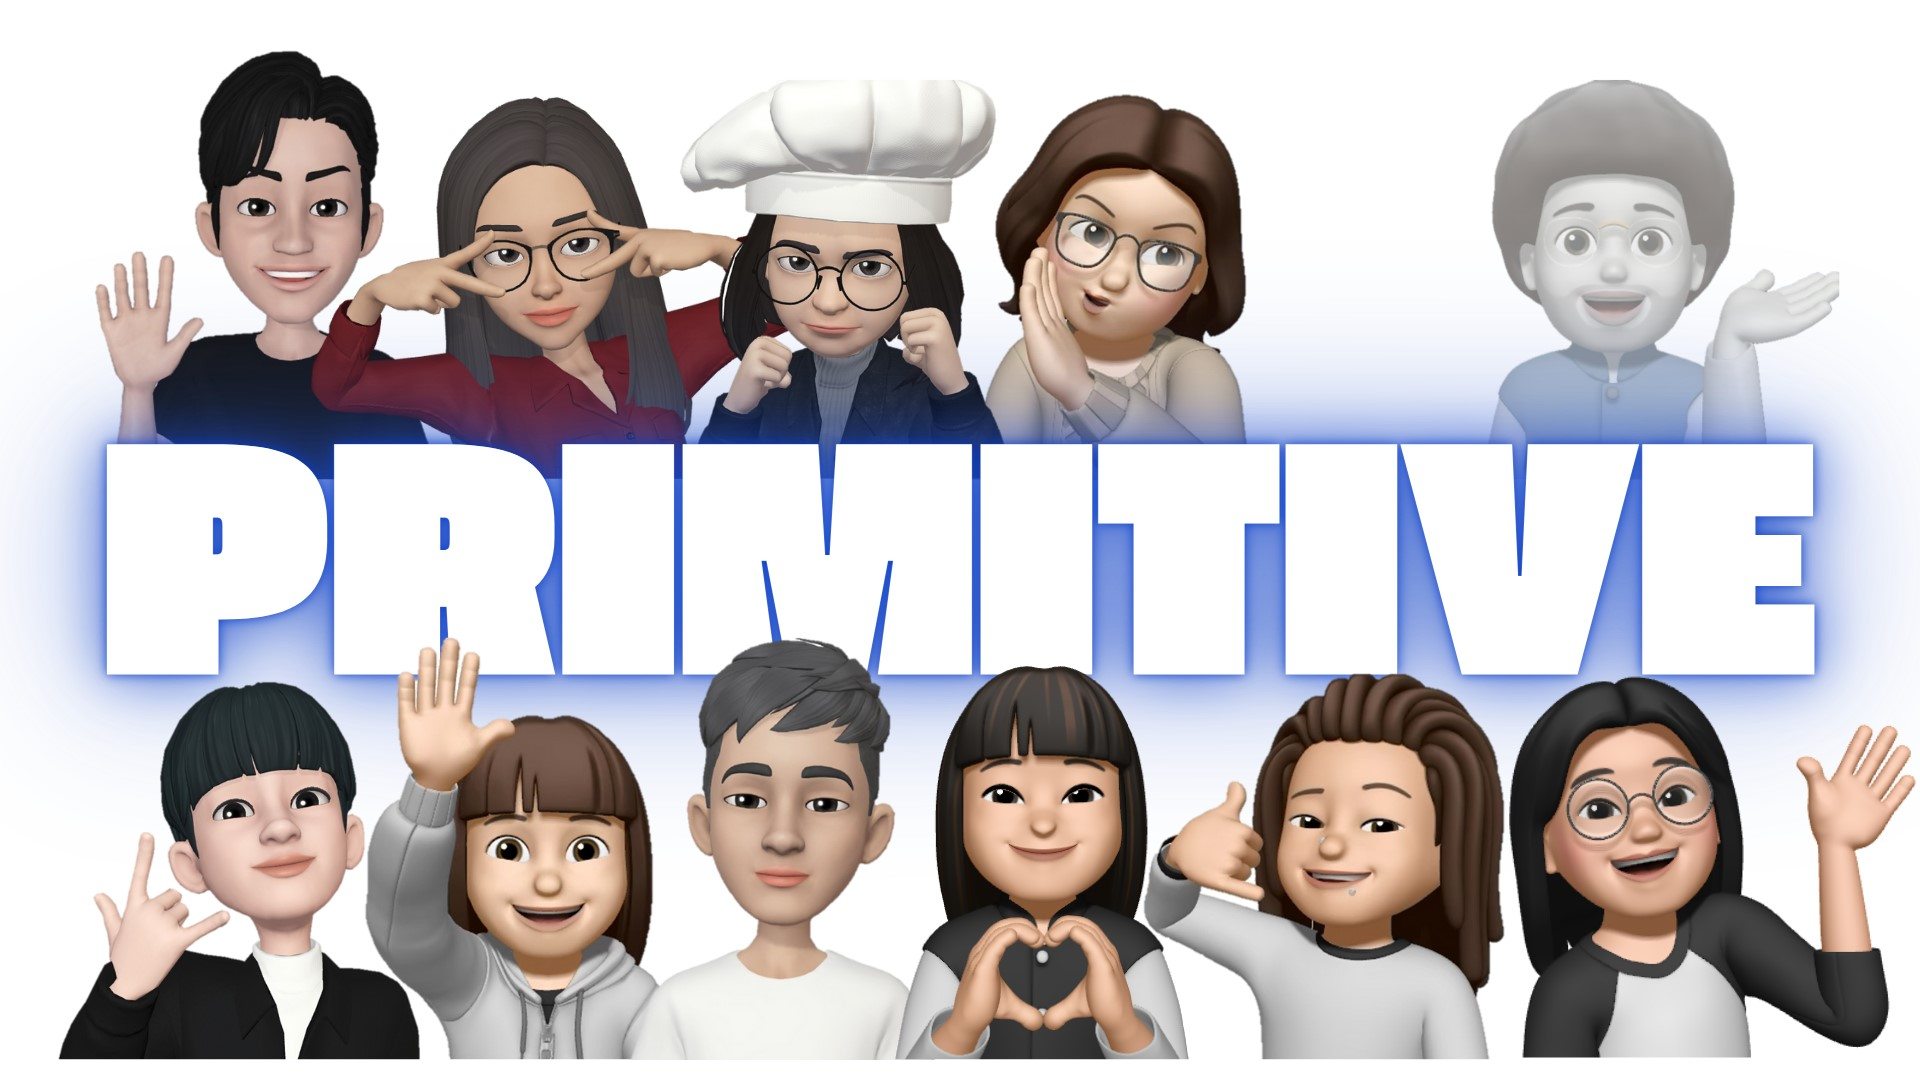
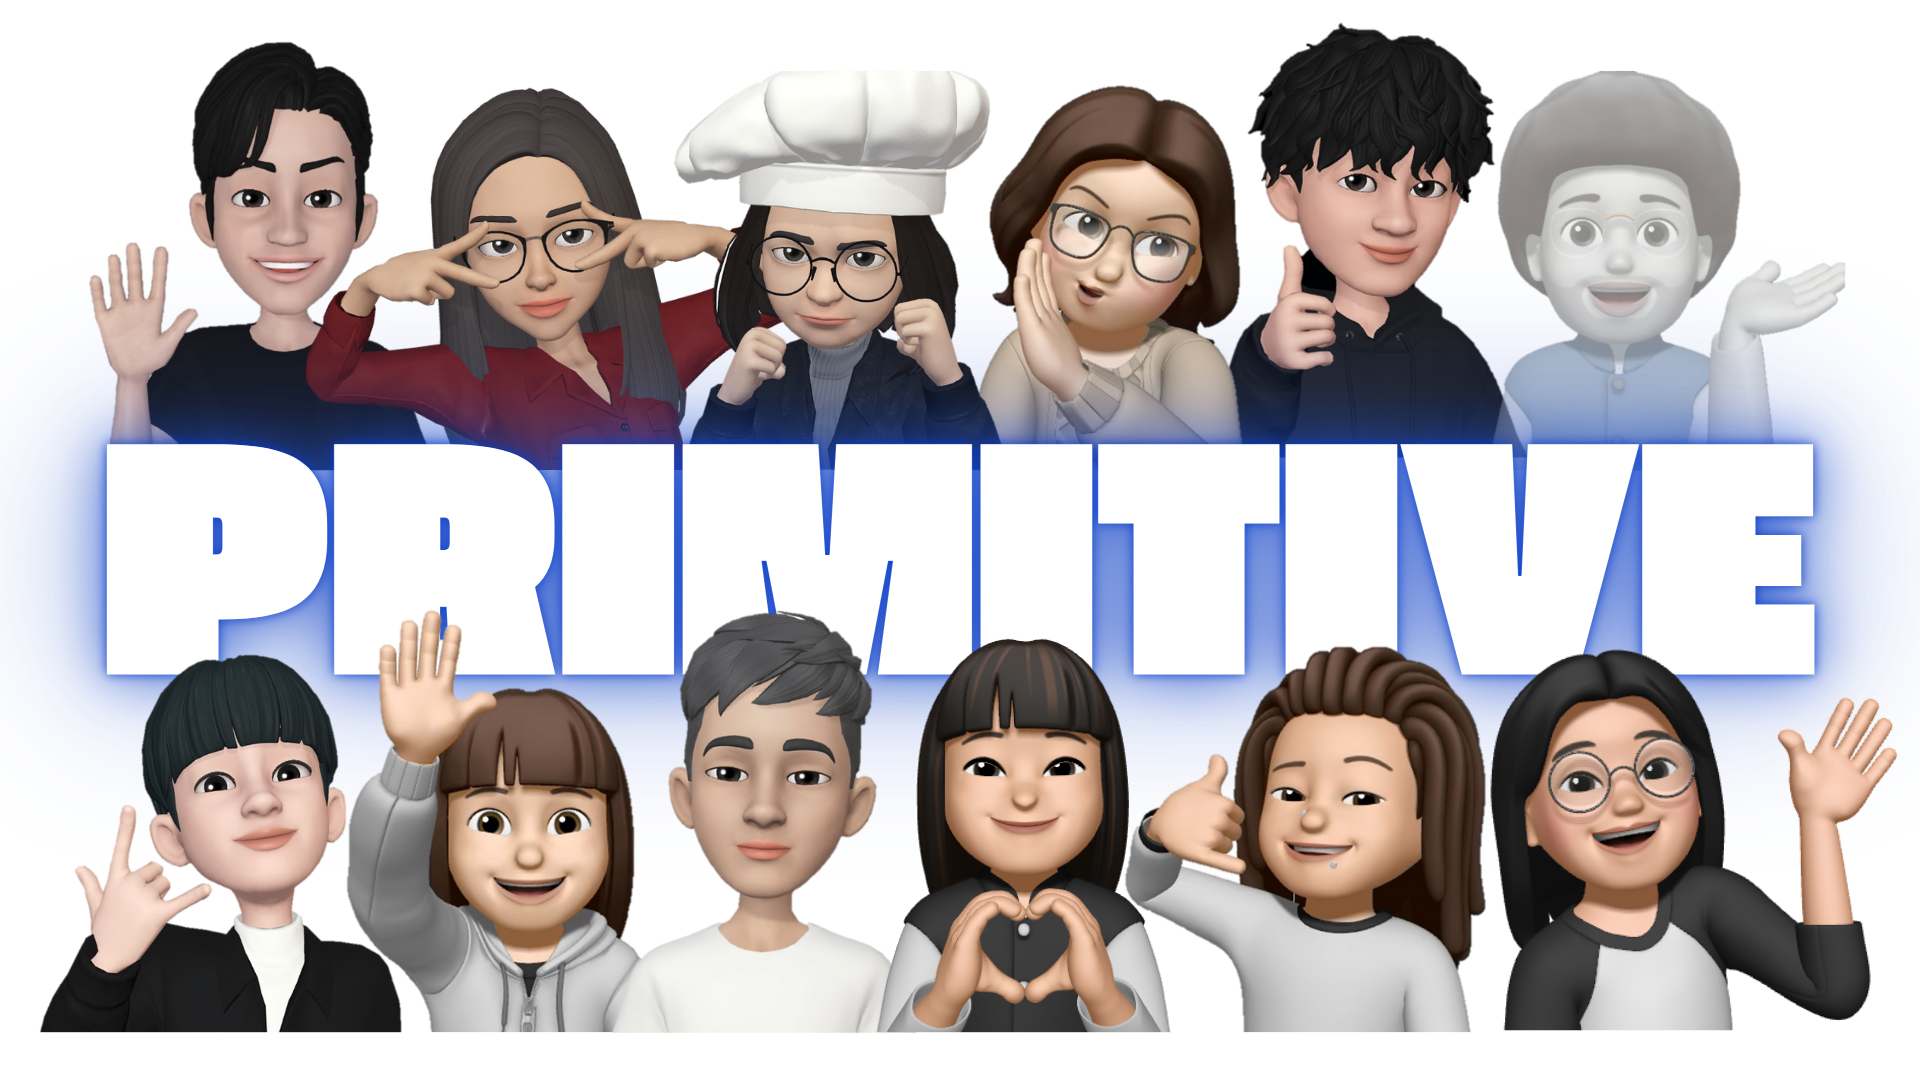
물품관리부 사진 수정

diff --git a/js/data.js b/js/data.js
@@ -2,7 +2,7 @@
 '민정', 0
 '찬규', 1
 '새론', 2
-'서아', 3
+'준우', 3
 '수정', 4
 '석현', 5
 '현지', 6
@@ -18,14 +18,14 @@ const qnaList = [
     q: '  나는 공주대학교 신입생!! \n 내일은 학교 첫날, 뭐 입고 갈까?  ',
     a: [
       { answer: ' 이미 생각해놨지~ 이거랑, 저거랑~ ', type: ['4','7','10'] },
-      { answer: ' 아 몰라~ 내일 끌리는 걸로!! ', type: ['0','1','2','6','9','11'] },
+      { answer: ' 아 몰라~ 내일 끌리는 걸로!! ', type: ['0','1','2','3','6','9','11'] },
       { answer: ' 아 지각했다!! 잡히는대로 입어!! ', type: ['5', '8' ] },
     ]
   },
   {
     q: '  드디어 개강 날이다! \n 첫 대학교 등굣길, 지금 내 생각은?  ',
     a: [
-      { answer: ' 벌써 집에 가고 싶다... ', type: ['0','1','2','6','9'] },
+      { answer: ' 벌써 집에 가고 싶다... ', type: ['0','1','2','3','6','9'] },
       { answer: ' 신나는 노래, 예쁜 하늘, 최고의 컨디션. 너무 설렌다! ', type: ['4', '7', '10', '11'] },
       { answer: ' 아 지각했다 지름길이 어디지?? ', type: ['5','8'] },
     ]
@@ -33,7 +33,7 @@ const qnaList = [
   {
     q: '  여기가 공주대구나! \n 학교 도착! \n 강의실로 가려는데 어떻게 가지?  ',
     a: [
-      { answer: ' 이미 다 에타로 알아놨지~ ', type: ['1', '4'] },
+      { answer: ' 이미 다 에타로 알아놨지~ ', type: ['1','3','4'] },
       { answer: ' 여기가 어디지...? 이곳저곳 다 헤매본다... ', type: ['5','6','7','9','11'] },
       { answer: '길을 모르겠으니 앞사람 따라가야겠다!', type: ['0','2','8','10'] }
     ]
@@ -41,7 +41,7 @@ const qnaList = [
   {
     q: '  열심히 길을 찾아 강의실에 도착했다. \n 강의실에서 처음 만난 옆자리 사람에게 나는?  ',
     a: [
-      { answer: '마이쮸를 건네며, "안녕하세요!" 반갑게 인사한다 ', type: ['4','5','7','8','11' ] },
+      { answer: '마이쮸를 건네며, "안녕하세요!" 반갑게 인사한다 ', type: ['3','4','5','7','8','11' ] },
       { answer: '말 걸 때까지 가만히 있는다 ', type: ['0','1','2','6','9' ] },
       { answer: '제발 나한테 말 안 걸어줬으면...(바쁜 척을 한다)', type: ['10'] },
     ]
@@ -51,7 +51,7 @@ const qnaList = [
     a: [
       { answer: '의지와 관계없이 졸기 시작한다', type: ['1','4','7','8','9','11' ] },
       { answer: '설마 첫날인데 출첵하겠어? 몰래 나갈까?', type: ['2','5','10']},
-      { answer: 'OT여도 수업은 수업. 빡공 시작한다', type: ['0','6'] },
+      { answer: 'OT여도 수업은 수업. 빡공 시작한다', type: ['0','3','6'] },
     ]
   },
 
@@ -59,7 +59,7 @@ const qnaList = [
     q: '  수업시간 중 교수님이 간단한 질문을 하신다. \n 그러나 아무도 대답하지 않는다...  ',
     a: [
       { answer: '눈치를 보다가 "저요!" 손을 든다', type: ['10'] },
-      { answer: '누군가는 하겠지...(나는 아님)', type: ['0','1','2','4','5','6','8','9','11' ] },
+      { answer: '누군가는 하겠지...(나는 아님)', type: ['0','1','2','3','4','5','6','8','9','11' ] },
       { answer: '...(조느라 못 들음)', type: ['7'] },
     ]
   },
@@ -68,13 +68,13 @@ const qnaList = [
     a: [
       { answer: '학교 구경이나 해볼까?', type: ['4','7','8' ] },
       { answer: '수강신청 실패로 연강이다!!! \n 바로 다음 수업으로 뛰어간다', type: ['10'] },
-      { answer: '집(또는 기숙사)으로 간다', type: ['0','1','2','5','6','9','11' ] },
+      { answer: '집(또는 기숙사)으로 간다', type: ['0','1','2','3','5','6','9','11' ] },
     ]
   },
   {
     q: '  꼬르륵~ 점심시간이다. \n 아직 같이 먹을 사람이 없다. \n 이때 나는?  ',
     a: [
-      { answer: '...(조용히 혼자 눈치 안 보고 밥 먹기 시작)', type: ['0','1','2','4','5','6','11' ] },
+      { answer: '...(조용히 혼자 눈치 안 보고 밥 먹기 시작)', type: ['0','1','2','3','4','5','6','11' ] },
       { answer: '고향 친구에게 전화하며 애써 외로움을 달래본다', type: ['7','8','9' ] },
       { answer: '밥보다는 잠을 택한다', type: ['10'] },
     ]
@@ -82,7 +82,7 @@ const qnaList = [
   {
     q: '  오늘의 모든 수업이 모두 끝났다. \n 이제 PRIMITIVE 동아리에 입부 신청하러 가볼까?  ',
     a: [
-      { answer: '(첫인상이 중요하지) \n 당차게 인사하며 동아리방에 들어간다', type: ['4','7','8','9'] },
+      { answer: '(첫인상이 중요하지) \n 당차게 인사하며 동아리방에 들어간다', type: ['3','4','7','8','9'] },
       { answer: '(너무 떨린다) \n 심호흡을 하며 조심히 동아리방 문을 두드린다', type: ['9','10'] },
       { answer: '(이미 온라인 신청 완료)', type: ['0','1','2','5','6' ] },
     ]
@@ -90,7 +90,7 @@ const qnaList = [
   {
     q: '  PRIMITIVE 동아리방에 들어가니 \n 선배들이 반갑게 맞아준다!  ',
     a: [
-      { answer: '안녕하세요! 24학번 ㅇㅇ학과 ㅇㅇㅇ입니다!', type: ['1','4','8'] },
+      { answer: '안녕하세요! 24학번 ㅇㅇ학과 ㅇㅇㅇ입니다!', type: ['1','3','4','8'] },
       { answer: '안녕하세요. (신청서만 조용히 내고 나온다) 안녕히계세요.', type: ['2','6','9','10','11' ] },
       { answer: '분위기에 이끌려 동아리 연혁까지 듣고 나온다', type: ['0','5','7'] },
     ]
@@ -99,7 +99,7 @@ const qnaList = [
     q: '  알고 보니 동아리 신청은 온라인이다!! \n 머쓱하게 PRIMITIVE 동아리방에서 나오는 길 \n 사실 동아리방에서 마음에 드는 선배를 발견했다...  ',
     a: [
       { answer: '아무리 생각해도 너무 내 스타일이다! \n (다시 들어가서 인스타 맞팔한다)', type: ['10'] },
-      { answer: '아 정말 내 스타일이었지... \n (생각만 하고 집에 간다)', type: ['0','1','2','5','6','9','11'] },
+      { answer: '아 정말 내 스타일이었지... \n (생각만 하고 집에 간다)', type: ['0','1','2','3','5','6','9','11'] },
       { answer: '동아리에 합격하면 꼭 친해지고, 그러다 연애도 하고... \n (망상을 하며 집에 간다)', type: ['4','7','8'] },
     ]
   },
@@ -107,7 +107,7 @@ const qnaList = [
     q: '  개강 첫날 모든 일정이 끝나고 \n 집으로 돌아가는 길!  ',
     a: [
       { answer: '오늘 너무 좋았다! 내일이 기대된다!!', type: ['7','10' ] },
-      { answer: '피곤했다... 얼른 집에 가서 자야지', type: ['0','1','2','5','6','9','11'] },
+      { answer: '피곤했다... 얼른 집에 가서 자야지', type: ['0','1','2','3','5','6','9','11'] },
       { answer: '집이 뭐야~ 마셔 마셔~', type: ['4','8'] },
     ]
   }
@@ -127,8 +127,8 @@ const infoList = [
     desc: '"PRIMITIVE 활동 실질적 추진자\n여기로 가볼까요?"\n\n주의력을 필요로 하는 일을 좋아해요\n친한 사람일수록 냉정하고 비판적 모습을 보여요\n알고 보면 순둥이라는 말을 많이 들어요\n남을 배려하다 자신의 것을 놓치기도 해요\n그럴수 있지/그런가보다를 자주 말해요'
   },
   {
-    name: 'PRIMITIVE 물품관리부 부장 [서아]',
-    desc: '"PRIMITIVE에 필요한 물품!\n모두 나를 통해요!"\n\n완벽주의적인 성향이 강해요\n이상한 유머코드를 갖고 있다는 말을 자주 들어요\n남에게 민폐끼치는 것을 강박적으로 피해요\n상상력을 자극하는 창작물을 좋아해요\n말수가 적고 생각이 많은 편이에요'
+    name: 'PRIMITIVE 물품관리부 부장 [준우]',
+    desc: '"PRIMITIVE에 필요한 물품!\n모두 나를 통해요!"\n멀티테스킹을 잘하는 편이에요\n새로운 경험을 좋아해요\n자신의 생각과 아이디어를 공유하는 것을 좋아해요\n처음보는 사람에게 말을 거는 것에 두려움이 없어요\n감정이 얼굴에 솔직하게 드러나는 편이에요'
   },
   {
     name: 'PRIMITIVE 미디어부 부장 [수정]',

diff --git a/index.html b/index.html
@@ -8,7 +8,7 @@
     <meta name="description" content="PRIMITIVIE 부원 테스트">
 
     <!-- sns share -->
-    <meta property="og:url" content="https://joinprimitive.netlify.app"/>
+    <meta property="og:url" content="https://hyeonji0401.github.io/JoinPrimitive/"/>
     <meta property="og:title" content="PRIMITIVIE 테스트" />
     <meta property="og:type" content="website" />
     <meta property="og:image" content="./img/share.png" />
